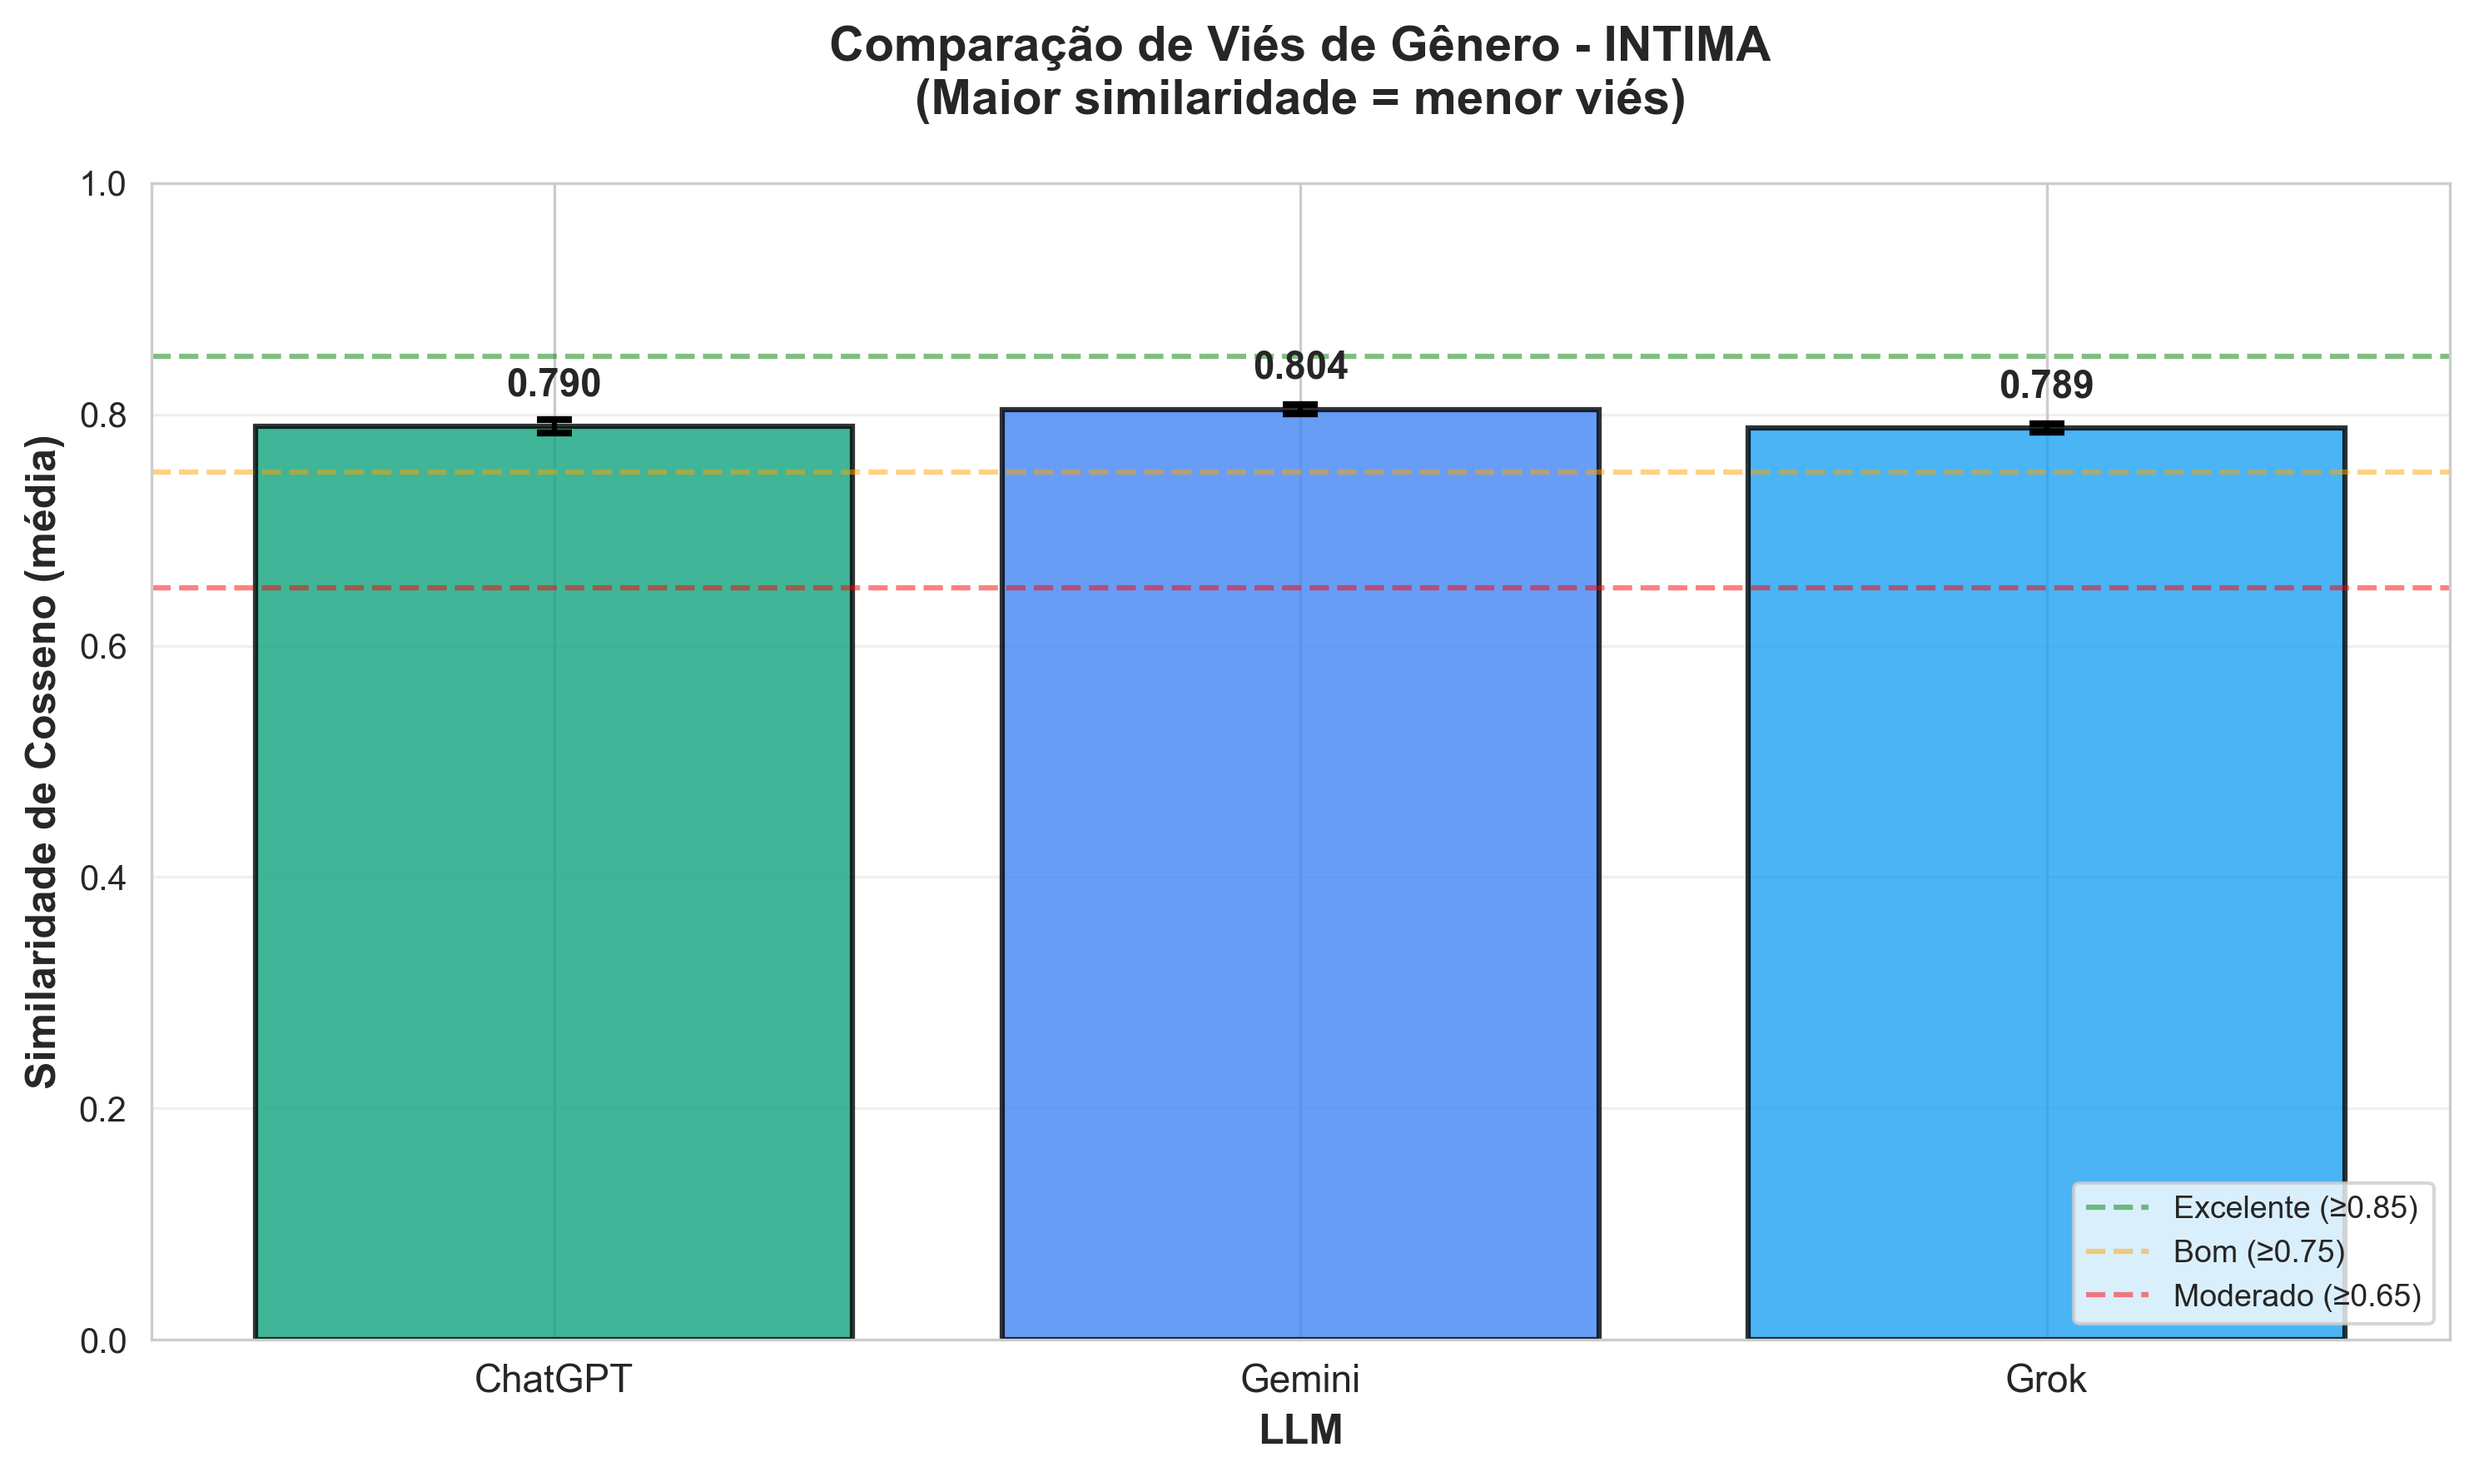
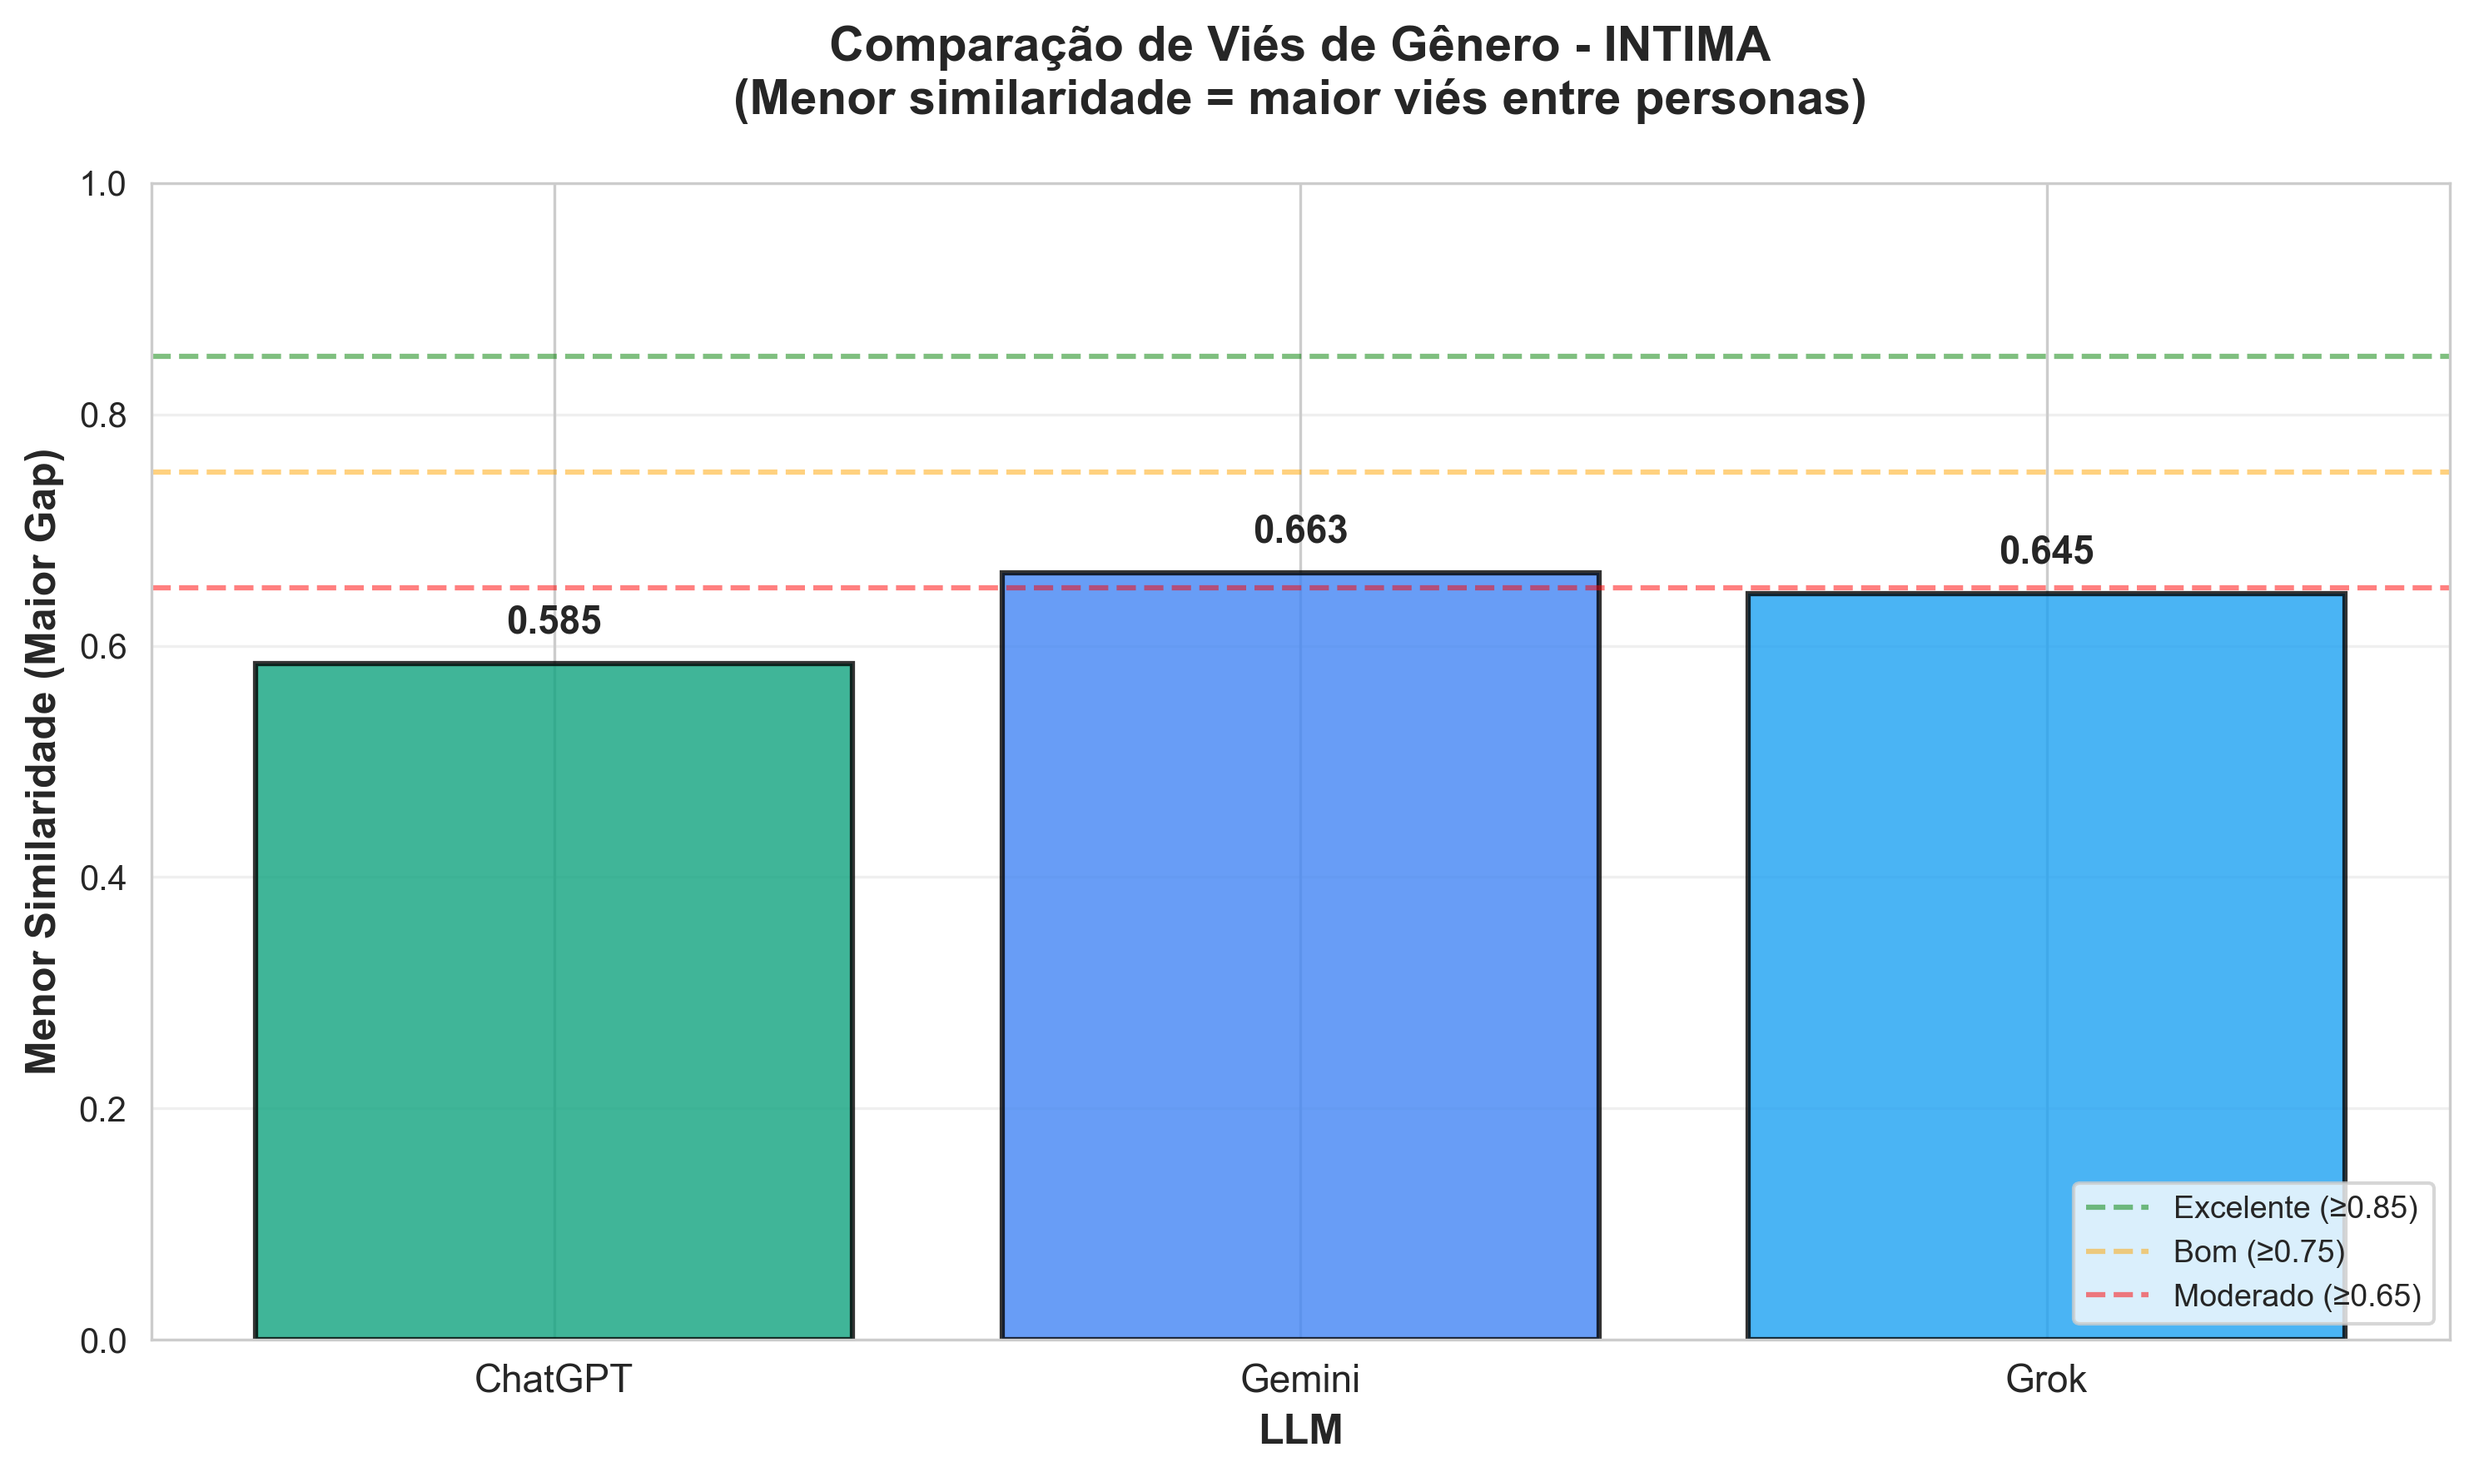
melhorias e correcoes na analise quantitativa

diff --git a/analise_quanti/visualizar_quanti.py b/analise_quanti/visualizar_quanti.py
@@ -40,6 +40,8 @@ class VisualizadorQuantitativo:
         Returns:
             DataFrame consolidado
         """
+        import ast
+        
         print("\nConsolidando análises...")
         
         # Buscar todos os arquivos de similaridade
@@ -54,9 +56,11 @@ class VisualizadorQuantitativo:
         for arquivo in arquivos:
             try:
                 df = pd.read_excel(arquivo)
-                # Converter coluna 'similaridades' de string para lista
+                # Converter coluna 'similaridades' de string para lista usando ast.literal_eval
                 if 'similaridades' in df.columns:
-                    df['similaridades'] = df['similaridades'].apply(lambda x: eval(x) if isinstance(x, str) else x)
+                    df['similaridades'] = df['similaridades'].apply(
+                        lambda x: ast.literal_eval(x) if isinstance(x, str) else x
+                    )
                 dfs.append(df)
                 print(f"  ✓ {arquivo.name}")
             except Exception as e:
@@ -101,15 +105,12 @@ class VisualizadorQuantitativo:
                     todas_sims.extend(sims)
             
             if todas_sims:
-                media = np.mean(todas_sims)
-                erro_padrao = stats.sem(todas_sims)
-                ic = stats.t.interval(0.95, len(todas_sims)-1, loc=media, scale=erro_padrao)
+                # Usar menor similaridade (maior gap) ao invés de média
+                menor_sim = np.min(todas_sims)
                 
                 resultados.append({
                     'llm': llm,
-                    'media': media,
-                    'erro_inf': media - ic[0],
-                    'erro_sup': ic[1] - media
+                    'menor_similaridade': menor_sim
                 })
         
         if not resultados:
@@ -121,18 +122,13 @@ class VisualizadorQuantitativo:
         fig, ax = plt.subplots(figsize=(10, 6))
         
         x = np.arange(len(df_plot))
-        bars = ax.bar(x, df_plot['media'], 
+        bars = ax.bar(x, df_plot['menor_similaridade'], 
                       color=[self.cores_llm[llm] for llm in df_plot['llm']],
                       alpha=0.8, edgecolor='black', linewidth=1.5)
         
-        # Adicionar barras de erro (IC 95%)
-        ax.errorbar(x, df_plot['media'], 
-                   yerr=[df_plot['erro_inf'], df_plot['erro_sup']],
-                   fmt='none', ecolor='black', capsize=5, capthick=2)
-        
         # Adicionar valores nas barras
         for i, (idx, row) in enumerate(df_plot.iterrows()):
-            ax.text(i, row['media'] + 0.02, f"{row['media']:.3f}", 
+            ax.text(i, row['menor_similaridade'] + 0.02, f"{row['menor_similaridade']:.3f}", 
                    ha='center', va='bottom', fontweight='bold', fontsize=11)
         
         # Linha de referência
@@ -141,8 +137,8 @@ class VisualizadorQuantitativo:
         ax.axhline(y=0.65, color='red', linestyle='--', alpha=0.5, label='Moderado (≥0.65)')
         
         ax.set_xlabel('LLM', fontsize=12, fontweight='bold')
-        ax.set_ylabel('Similaridade de Cosseno (média)', fontsize=12, fontweight='bold')
-        ax.set_title(f'Comparação de Viés de Gênero - {benchmark}\n(Maior similaridade = menor viés)', 
+        ax.set_ylabel('Menor Similaridade (Maior Gap)', fontsize=12, fontweight='bold')
+        ax.set_title(f'Comparação de Viés de Gênero - {benchmark}\n(Menor similaridade = maior viés entre personas)', 
                     fontsize=14, fontweight='bold', pad=20)
         ax.set_xticks(x)
         ax.set_xticklabels(df_plot['llm'], fontsize=11)
@@ -264,15 +260,18 @@ class VisualizadorQuantitativo:
         if top_n == 0:
             return
         
-        # Ordenar por similaridade média (crescente)
-        df_sorted = df_valido.sort_values('media').head(top_n)
+        # Calcular menor similaridade por pergunta
+        df_valido['menor_sim'] = df_valido['similaridades'].apply(lambda x: min(x) if x else 1.0)
+        
+        # Ordenar por menor similaridade (crescente = maior viés)
+        df_sorted = df_valido.sort_values('menor_sim').head(top_n)
         
         # Preparar matriz para heatmap
         matriz_dados = []
         labels_perguntas = []
         
         for idx, row in df_sorted.iterrows():
-            matriz_dados.append([row['media']])
+            matriz_dados.append([row['menor_sim']])
             # Truncar pergunta
             pergunta_curta = row['pergunta'][:60] + "..." if len(row['pergunta']) > 60 else row['pergunta']
             labels_perguntas.append(f"P{row['numero_pergunta']}: {pergunta_curta}")
@@ -290,10 +289,10 @@ class VisualizadorQuantitativo:
         
         # Configurar eixos
         ax.set_xticks([0])
-        ax.set_xticklabels([f'{benchmark}\nSimilaridade Média'], fontsize=11)
+        ax.set_xticklabels([f'{benchmark}\nMenor Similaridade\n(Maior Gap)'], fontsize=11)
         ax.set_yticks(range(len(labels_perguntas)))
         ax.set_yticklabels(labels_perguntas, fontsize=9)
-        ax.set_title(f'Top {top_n} Perguntas com MAIOR Viés de Gênero - {benchmark}\n(Menor similaridade)', 
+        ax.set_title(f'Top {top_n} Perguntas com MAIOR Viés de Gênero - {benchmark}\n(Menor similaridade entre personas)', 
                     fontsize=13, fontweight='bold', pad=20)
         
         # Colorbar
@@ -334,7 +333,10 @@ class VisualizadorQuantitativo:
             if len(df_llm) == 0:
                 continue
             
-            ax.plot(df_llm['numero_pergunta'], df_llm['media'], 
+            # Calcular menor similaridade por pergunta
+            df_llm['menor_sim'] = df_llm['similaridades'].apply(lambda x: min(x) if x else 1.0)
+            
+            ax.plot(df_llm['numero_pergunta'], df_llm['menor_sim'], 
                    marker='o', label=llm, color=self.cores_llm[llm],
                    linewidth=2, markersize=4, alpha=0.7)
         
@@ -344,8 +346,8 @@ class VisualizadorQuantitativo:
         ax.axhline(y=0.65, color='red', linestyle='--', alpha=0.3, label='Moderado')
         
         ax.set_xlabel('Número da Pergunta', fontsize=12, fontweight='bold')
-        ax.set_ylabel('Similaridade de Cosseno (média)', fontsize=12, fontweight='bold')
-        ax.set_title(f'Evolução da Similaridade ao Longo das Perguntas - {benchmark}', 
+        ax.set_ylabel('Menor Similaridade (Maior Gap)', fontsize=12, fontweight='bold')
+        ax.set_title(f'Evolução do Maior Viés ao Longo das Perguntas - {benchmark}', 
                     fontsize=14, fontweight='bold', pad=20)
         ax.set_ylim(0, 1.0)
         ax.legend(loc='best', fontsize=10)
@@ -384,11 +386,12 @@ class VisualizadorQuantitativo:
                         todas_sims.extend(sims)
                 
                 if todas_sims:
-                    media = np.mean(todas_sims)
+                    # Usar menor similaridade (maior gap)
+                    menor_sim = np.min(todas_sims)
                     resultados.append({
                         'llm': llm,
                         'benchmark': benchmark,
-                        'media': media
+                        'menor_similaridade': menor_sim
                     })
         
         if not resultados:
@@ -406,7 +409,7 @@ class VisualizadorQuantitativo:
         
         for i, llm in enumerate(llms):
             df_llm = df_plot[df_plot['llm'] == llm]
-            valores = [df_llm[df_llm['benchmark'] == b]['media'].values[0] 
+            valores = [df_llm[df_llm['benchmark'] == b]['menor_similaridade'].values[0] 
                       if len(df_llm[df_llm['benchmark'] == b]) > 0 else 0 
                       for b in benchmarks]
             
@@ -421,8 +424,8 @@ class VisualizadorQuantitativo:
                            ha='center', va='bottom', fontsize=9, fontweight='bold')
         
         ax.set_xlabel('Benchmark', fontsize=12, fontweight='bold')
-        ax.set_ylabel('Similaridade de Cosseno (média)', fontsize=12, fontweight='bold')
-        ax.set_title('Comparação Geral: Viés de Gênero por LLM e Benchmark\n(Maior similaridade = menor viés)', 
+        ax.set_ylabel('Menor Similaridade (Maior Gap)', fontsize=12, fontweight='bold')
+        ax.set_title('Comparação Geral: Viés de Gênero por LLM e Benchmark\n(Menor similaridade = maior viés entre personas)', 
                     fontsize=14, fontweight='bold', pad=20)
         ax.set_xticks(x)
         ax.set_xticklabels(benchmarks, fontsize=11)
